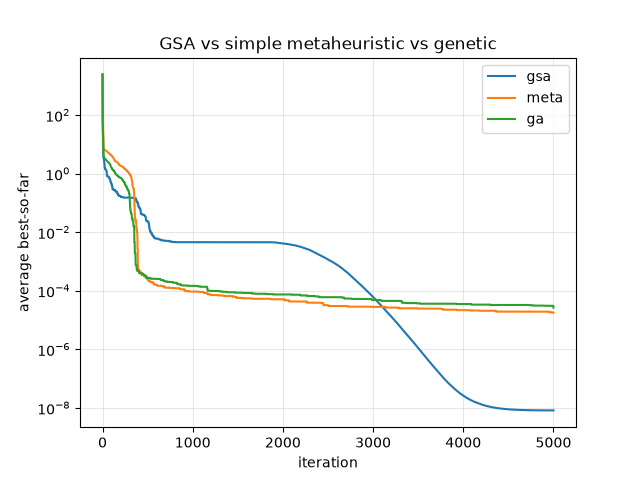
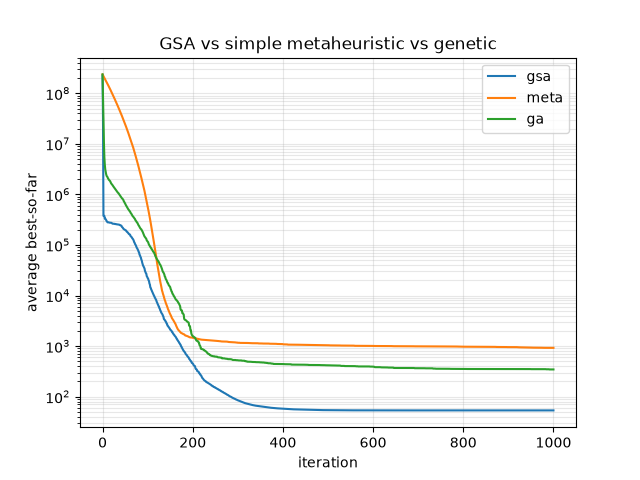
docs: paper table + compare graph at 30D budget

diff --git a/README.md b/README.md
@@ -16,13 +16,13 @@ see [Visualize a run](#visualize-a-run)):
 |---|---|
 | <img src="docs/images/surface_3d.png" width="400" alt="surface"> | <img src="docs/images/anim3d.gif" width="400" alt="3d animation"> |
 
-## Benchmark: minimization on 2D Rosenbrock (±30) with n = 50 agents, max_iter = 5000, over 30 runs
+## Benchmark: minimization on 30D Rosenbrock (±30) with n = 50 agents, max_iter = 1000, over 30 runs
 
 |  | GSA | Simple metaheuristic | Genetic |
 |---|---|---|---|
-| Average best-so-far | 8.2e-09 | 1.8e-05 | 2.7e-05 |
-| Median best-so-far | 2.1e-20 | 1.2e-05 | 2.0e-05 |
-| Average mean fitness | 1.7e+06 | 9.3e-04 | 2.4e+02 |
+| Average best-so-far | 53 | 923 | 345 |
+| Median best-so-far | 28 | 378 | 282 |
+| Average mean fitness | 1.5e+07 | 1074 | 1406 |
 
 (Final-iteration values from `exports/bench/*_avg.csv`; see
 [Algorithm comparison](#algorithm-comparison-gsa-vs-metaheuristic-vs-genetic).)
